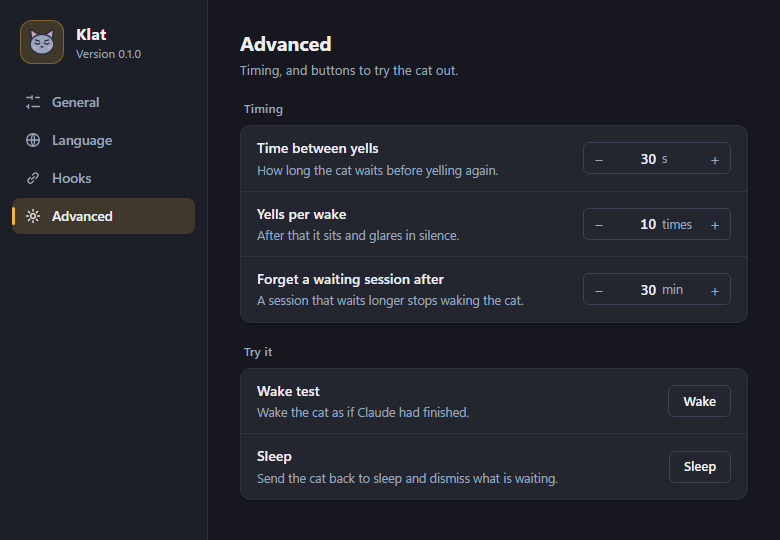
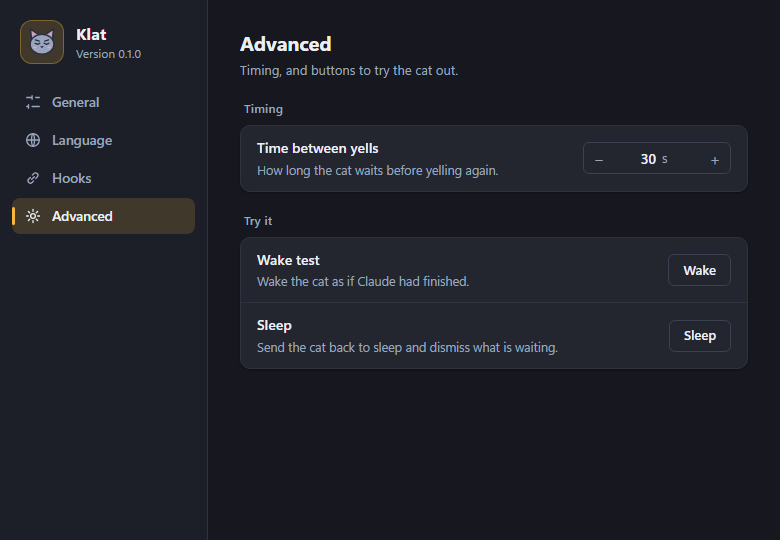
Settings window: drop yells-per-wake and stale-session steppers from Advanced
Owner's call (2026-10-13). Both values keep working from settings.json with
their defaults (10 yells, 30 minutes); only the time between yells stays in
the window. Spec, intent and the review screenshot are updated.

diff --git a/tests/settingsViewModel.test.ts b/tests/settingsViewModel.test.ts
@@ -9,14 +9,17 @@ import {
   toDisplay,
 } from '../src/settings-window/viewModel';
 
-const { yellIntervalMs: yell, maxYellsPerWake: yells, staleAfterMs: stale } = NUMBER_FIELDS;
-const settings = { yellIntervalMs: 30_000, maxYellsPerWake: 10, staleAfterMs: 1_800_000 };
+const yell = NUMBER_FIELDS.yellIntervalMs;
+const settings = { yellIntervalMs: 30_000 };
 
 describe('settings window view model', () => {
-  it('shows numbers in seconds, times and minutes', () => {
+  it('shows the yell interval in seconds', () => {
     expect(toDisplay(yell, settings)).toBe(30);
-    expect(toDisplay(yells, settings)).toBe(10);
-    expect(toDisplay(stale, settings)).toBe(30);
+    expect(toDisplay(yell, { yellIntervalMs: 7_400 })).toBe(7);
+  });
+
+  it('offers only the yell interval among the numbers', () => {
+    expect(Object.keys(NUMBER_FIELDS)).toEqual(['yellIntervalMs']);
   });
 
   it('turns typed values back into settings values, clamped and whole', () => {
@@ -25,8 +28,7 @@ describe('settings window view model', () => {
     expect(fromDisplay(yell, '7,4')).toBe(7_000);
     expect(fromDisplay(yell, '1')).toBe(5_000);
     expect(fromDisplay(yell, '9999')).toBe(600_000);
-    expect(fromDisplay(yells, 0)).toBe(1);
-    expect(fromDisplay(stale, '300')).toBe(14_400_000);
+    expect(fromDisplay(yell, 0)).toBe(5_000);
   });
 
   it('rejects input that is not a number', () => {
@@ -43,7 +45,6 @@ describe('settings window view model', () => {
     // An off-grid value from a hand-edited file snaps to the grid.
     expect(stepped(yell, 7, 1)).toBe(10);
     expect(stepped(yell, 7, -1)).toBe(5);
-    expect(stepped(yells, 10, 1)).toBe(11);
   });
 
   it('offers install, repair or nothing depending on the hooks status', () => {

diff --git a/src/settings-window/viewModel.ts b/src/settings-window/viewModel.ts
@@ -7,9 +7,12 @@ import type { AppSettings } from '../settings';
 export type SectionId = 'general' | 'language' | 'hooks' | 'advanced';
 export const SECTIONS: readonly SectionId[] = ['general', 'language', 'hooks', 'advanced'];
 
-/** A number setting shown in a friendlier unit. Ranges match src-tauri/src/settings.rs. */
+/**
+ * A number setting shown in a friendlier unit. Ranges match src-tauri/src/settings.rs. maxYellsPerWake and
+ * staleAfterMs stay out of the window (owner's call, 2026-10-13); they can still be set in settings.json.
+ */
 export interface NumberField {
-  key: 'yellIntervalMs' | 'maxYellsPerWake' | 'staleAfterMs';
+  key: 'yellIntervalMs';
   /** Settings value per displayed unit. */
   scale: number;
   min: number;
@@ -20,8 +23,6 @@ export interface NumberField {
 
 export const NUMBER_FIELDS: Readonly<Record<NumberField['key'], NumberField>> = {
   yellIntervalMs: { key: 'yellIntervalMs', scale: 1000, min: 5, max: 600, step: 5, unit: 'settings.unit.seconds' },
-  maxYellsPerWake: { key: 'maxYellsPerWake', scale: 1, min: 1, max: 50, step: 1, unit: 'settings.unit.times' },
-  staleAfterMs: { key: 'staleAfterMs', scale: 60_000, min: 5, max: 240, step: 5, unit: 'settings.unit.minutes' },
 };
 
 /** The value to display for a setting, in the field's unit. */

diff --git a/src/settings-window/sections/advanced.ts b/src/settings-window/sections/advanced.ts
@@ -1,4 +1,4 @@
-// Advanced: the three timing numbers, and buttons to try the cat out.
+// Advanced: how often the cat yells, and buttons to try the cat out.
 import type { AppSettings } from '../../settings';
 import { button, card, row, stepper, h, type Control } from '../controls';
 import type { Ctx, SectionView } from '../context';
@@ -7,8 +7,6 @@ import type { UiKey } from '../../i18n';
 
 const ROWS: readonly { field: NumberField; title: UiKey; desc: UiKey }[] = [
   { field: NUMBER_FIELDS.yellIntervalMs, title: 'settings.advanced.yellInterval', desc: 'settings.advanced.yellInterval.desc' },
-  { field: NUMBER_FIELDS.maxYellsPerWake, title: 'settings.advanced.maxYells', desc: 'settings.advanced.maxYells.desc' },
-  { field: NUMBER_FIELDS.staleAfterMs, title: 'settings.advanced.stale', desc: 'settings.advanced.stale.desc' },
 ];
 
 export function advancedSection(ctx: Ctx): SectionView {

diff --git a/docs/intent/settings-window-and-macos.md b/docs/intent/settings-window-and-macos.md
@@ -8,7 +8,7 @@
 | **Outcome** | Klat có một **cửa sổ Settings** riêng để chỉnh mọi thứ; tray chỉ còn thao tác nhanh; Klat chạy được trên **macOS**. |
 | **Tray** | Chỉ giữ Ready, Pause, Dismiss all, *Settings…*, Quit. |
 | **Giao diện Settings** | Bố cục chặt kiểu Settings của hệ điều hành: sidebar trái (General / Language / Hooks / Advanced), mỗi dòng có tên setting, mô tả ngắn và control bên phải, tự đổi sáng/tối theo hệ thống. Thêm chất Klat ở mức vừa phải: mèo nhỏ ở header, màu nhấn lấy từ aura, phần Language cho xem trước một câu thoại mẫu. Phải đẹp, bắt mắt, bố cục chặt chẽ và hợp lý. |
-| **Nội dung Settings** | SFW, Hide while sleeping, Start at login, Reduce motion; Hooks (Install/Repair/Uninstall); 3 tham số đang ẩn (khoảng cách giữa hai lần gọi, số lần gọi tối đa, thời gian session bị coi là cũ); mục Advanced chứa Wake test và Sleep. |
+| **Nội dung Settings** | SFW, Hide while sleeping, Start at login, Reduce motion; Hooks (Install/Repair/Uninstall); khoảng cách giữa hai lần gọi (số lần gọi tối đa và thời gian session bị coi là cũ bị bỏ khỏi cửa sổ ngày 2026-10-13); mục Advanced chứa Wake test và Sleep. |
 | **Ngôn ngữ** | **Platform Language** (English / Tiếng Việt) đổi toàn bộ chữ giao diện: tray, Settings, thông báo. Mặc định English. **Klat Language** (English / Tiếng Việt / Auto) chỉ đổi câu thoại của mèo; Auto random cả hai thứ tiếng. Mặc định Auto. Đổi setting là áp dụng ngay, không cần nút Save. |
 | **User** | Người dùng thường: tải `.dmg` về và mở theo guide có ảnh. Dev: tự build từ source theo guide. |
 | **Success** | Trên Windows mọi thứ chạy như cũ, cộng thêm cửa sổ Settings và hai lựa chọn ngôn ngữ. Code Rust biên dịch được cho target macOS. Có hai tài liệu: build `.dmg` (cho dev) và cài đặt, mở app khi chưa ký (cho người dùng thường). |

diff --git a/docs/specs/settings-i18n-macos.md b/docs/specs/settings-i18n-macos.md
@@ -174,7 +174,7 @@ Settings. **Không dịch:** log file, câu thoại (thuộc Klat Language), tê
 | **General** | Card "Startup": Start at login. Card "Cat": Pause notifications (đồng bộ hai chiều với tray), Hide cat while sleeping, SFW mode, Reduce motion. Card "Moving the cat": một dòng hướng dẫn "Giữ Space, nhấn chuột lên mèo rồi kéo; thả Space để đặt". Trên macOS dòng này kèm trạng thái quyền Accessibility và nút "Cấp quyền" khi `drag_permission` = `missing`. |
 | **Language** | Card "Platform Language": segmented English / Tiếng Việt. Card "Klat Language": segmented English / Tiếng Việt / Auto + **ô xem trước**: bong bóng thoại cùng kiểu bubble overlay, hiện một câu bốc bằng `PhrasePicker` theo `klatLanguage` + `sfwMode`, nút "Câu khác" (↻) bốc câu mới. |
 | **Hooks** | Card trạng thái: pill Installed / Needs repair / Not installed, đường dẫn `settings.json` (monospace, có thể chọn copy). Nút chính đổi theo trạng thái (Install / Repair; ẩn khi Installed), nút phụ Uninstall. Kết quả hiện **banner inline** trong card (thành công xanh / lỗi đỏ), không bật hộp thoại. |
-| **Advanced** | Card "Timing": khoảng cách giữa hai lần gọi (giây), số lần gọi tối đa, thời gian session bị coi là cũ (phút); mỗi dòng là stepper số có đơn vị. Card "Test": Wake test, Sleep. |
+| **Advanced** | Card "Timing": khoảng cách giữa hai lần gọi (giây), stepper số có đơn vị. Card "Test": Wake test, Sleep. Số lần gọi tối đa và thời gian session bị coi là cũ **không** có trong cửa sổ (quyết định 2026-10-13); vẫn sửa được trong `settings.json`. |
 
 ### 4.3 Hệ thiết kế
 
